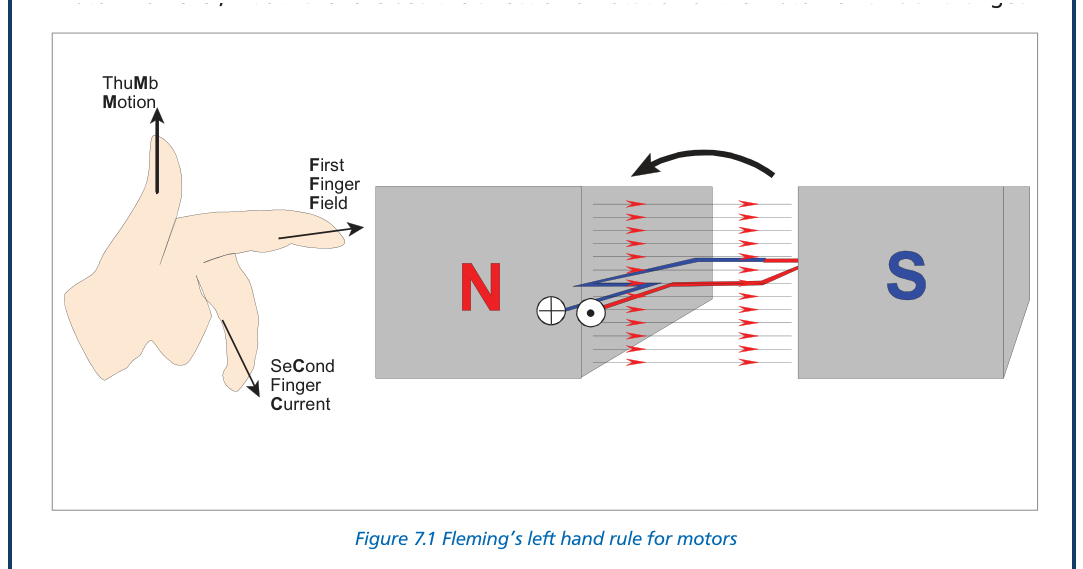
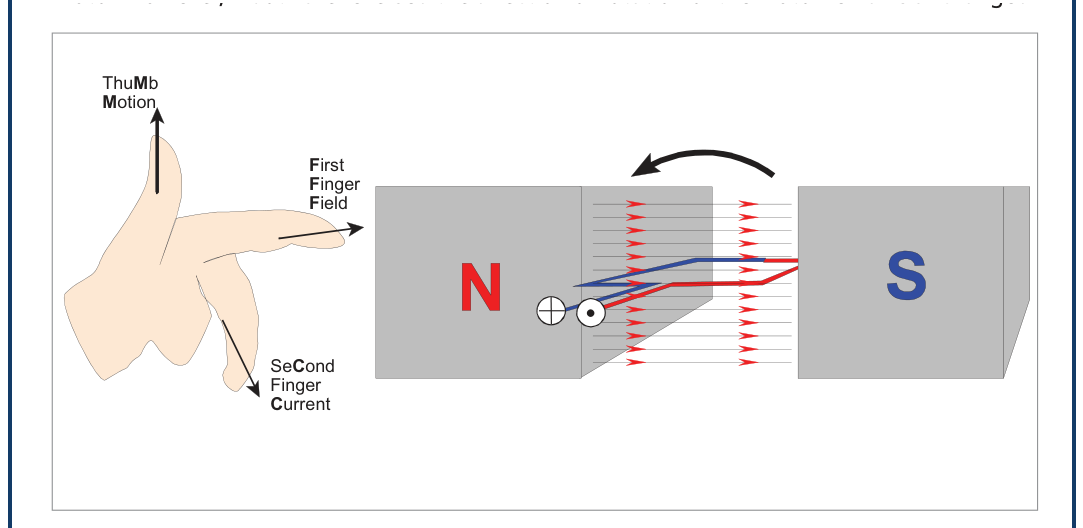
Electrics ch7 (DC motors & actuators): 11 figure notes + block

diff --git a/frontend/src/app/data/aircraft-technical-figure-notes.ts b/frontend/src/app/data/aircraft-technical-figure-notes.ts
@@ -618,6 +618,63 @@ export const FIGURE_NOTES: Record<string, string[]> = {
     "Variable resistors and the voltage-control coils trim each generator's field; the line contactors connect or isolate a generator from the bus. This keeps the two 14 V generators sharing the load evenly.",
   ],
 
+  // ─── Electrics — DC motors & actuators (A.1.3) ───
+  "elecfig-ch07_01": [
+    "This is Fleming's left-hand rule, used to find which way a MOTOR turns. Hold the thumb and first two fingers of the left hand at right angles.",
+    "The First finger points along the Field (N to S), the seCond finger points the way the Current flows, and the thuMb then shows the direction of the resulting Motion (force on the conductor).",
+    "Left hand for motors (motion out), right hand for generators (current out) — a handy way to keep the two rules apart.",
+  ],
+  "elecfig-ch07_02": [
+    "This shows the heart of a DC motor. A current-carrying loop sits in the magnetic field between the poles; the force on its two sides (one up, one down) makes it rotate — just the motor principle applied to a loop.",
+    "The right-hand view shows a real armature with several coils and a commutator split into segments (1, 2, 3, 4). Current is fed in through brushes to whichever coils are best placed to give turning force.",
+    "As the armature turns, the commutator keeps switching the current to the next coils, so the push is continuous and the motor spins smoothly.",
+  ],
+  "elecfig-ch07_03": [
+    "This cutaway shows how a DC motor is built. The armature (the rotating winding) is carried on bearings — a roller bearing at one end, a ball bearing at the other.",
+    "The field coils are wound on pole pieces fixed inside the case to provide the magnetic field. Current reaches the spinning armature through carbon brushes, held against the commutator by springs in brush boxes.",
+    "A fan on the shaft cools the motor, and a pulley (or shaft) takes the drive out to the load. These are the parts to be able to name for the exam.",
+  ],
+  "elecfig-ch07_04": [
+    "This shows why a starter motor needs a slow-start resistor. At the instant of starting the motor is not yet turning, so it generates no back-EMF, and a very large inrush current would flow.",
+    "A resistor is put in series to limit this starting current. Once the motor is up to speed, a centrifugal switch (or a time switch) closes and shorts the resistor out, so the motor then gets the full voltage.",
+    "This protects the battery and the motor from the heavy surge that would otherwise occur at switch-on.",
+  ],
+  "elecfig-ch07_05": [
+    "This is a series-wound DC motor: the field coil is in series with the armature, so all the motor current flows through the field.",
+    "That gives it a very high starting torque (lots of current at start means a strong field), which is why series motors are used for starter motors. The downside is that its speed varies a lot with load, and off-load it can over-speed dangerously.",
+    "So a series motor is ideal for a job needing a big initial pull against a heavy load, like turning an engine over.",
+  ],
+  "elecfig-ch07_06": [
+    "This is a shunt-wound DC motor: the field coil is connected in PARALLEL (across) the armature rather than in series.",
+    "Because the field current is almost constant, the motor runs at a fairly steady speed whatever the load — it does not run away off-load like a series motor.",
+    "That steady speed makes the shunt motor the choice where a constant running speed matters more than a huge starting torque.",
+  ],
+  "elecfig-ch07_07": [
+    "This shows a starter-generator — one machine that does two jobs. In MOTOR mode it is fed from the aircraft supply and turns the engine to start it (using its series field for high torque).",
+    "Once the engine is running, the machine is switched to GENERATOR mode: now driven by the engine, it generates electrical power, with a voltage regulator controlling its shunt field to hold the output steady.",
+    "Combining the starter and the generator in one unit saves weight and space, which is why it is common on turbine aircraft.",
+  ],
+  "elecfig-ch07_08": [
+    "This is the control circuit of a reversible actuator motor, run from the 28 V DC bus. A control switch selects OPEN or SHUT, feeding current into the motor so it drives one way or the other.",
+    "Limit switches cut the power when the actuator reaches the fully-open or fully-shut position, so it cannot over-run and damage itself. A brake coil holds it in place once stopped.",
+    "Indicator lights (OPEN / SHUT) tell the crew which end the actuator has reached, confirming the item has actually moved.",
+  ],
+  "elecfig-ch07_09": [
+    "This shows a complete rotary electric actuator. The motor drives through a reduction gear (to turn fast rotation into slow, powerful rotation) and a clutch to the output drive.",
+    "Separate OPEN and CLOSE brake coils stop and hold the actuator at each end. Open and close limit switches, operated as the output reaches its travel limits, cut the motor; a selector switch chooses the direction.",
+    "A magnetic 'doll's eye' position indicator shows OPEN, SHUT or (striped) in-transit, so the crew always know where the actuator is. This is the standard way a valve or flap is driven electrically.",
+  ],
+  "elecfig-ch07_10": [
+    "This is a linear electric actuator — it produces a straight push/pull instead of rotation. The motor drives through a reduction gear and clutch to a screw jack: a rotating screw turns a drive nut, which moves the output drive in or out.",
+    "A selector switch chooses IN or OUT, energising the matching motor winding. A limit-switch operating arm trips the IN or OUT limit switch at the end of travel to stop the motor.",
+    "Screw-jack actuators are used to move things that need a strong straight-line force, such as a trimmable stabiliser or a flap screw.",
+  ],
+  "elecfig-ch07_11": [
+    "This shows magnetic position indicators, the little displays that confirm a valve or actuator's position. In the 'doll's eye' type, a magnet assembly on a spindle is turned by a coil; it shows a striped face for NO POWER, then OPEN or SHUT as it is driven.",
+    "The prism type works the same way but flips small prisms to spell OPEN or SHUT (or show a striped 'no power' flag) in a window.",
+    "Both are magnetically operated, so they fall to the striped 'no-power' indication if the supply is lost — telling the crew the indication can no longer be trusted rather than giving a false reading.",
+  ],
+
   // ─── Airframes — Flight Controls: balance, tabs & trim (A.1.2) ───
   "atgfig-ch08_fig_04": [
     "This shows set-back hinge (inset hinge) aerodynamic balance. The hinge line is moved back from the control's leading edge, so part of the surface sits ahead of the hinge.",

diff --git a/frontend/src/app/data/aircraft-technical-notes.ts b/frontend/src/app/data/aircraft-technical-notes.ts
@@ -222,6 +222,14 @@ const NOTES: Record<string, SectionNote> = {
         "Generator failure: red warning light on, ammeter reads zero/discharge. A generator failure is electrical only — engines run normally.",
         "Paralleled generators must share voltage equally, or a circulating current flows between them; load shedding drops non-essential loads.",
       ]},
+      { heading: "DC motors & actuators", figureTopics: ["DC motors & actuators"], points: [
+        "Motor principle: current in the armature conductors sits in the field and is pushed round. Fleming's LEFT-hand rule gives the direction (thuMb motion, First finger field, seCond finger current). A commutator reverses the armature current every half-turn to keep it spinning one way.",
+        "Construction: armature on bearings, field coils on pole pieces, commutator fed by carbon brushes (spring-loaded), often with a cooling fan and an output pulley/shaft.",
+        "Field types: series motor = high starting torque but speed runs away off-load (used for starters); shunt motor = fairly constant speed (used where steady speed matters); compound = a mix.",
+        "Back-EMF: as a motor speeds up it generates a voltage opposing the supply, which limits the running current. At the instant of starting there is no back-EMF, so a big inrush current flows — a slow-start (series) resistor, shorted out by a centrifugal/time switch, limits it.",
+        "Starter-generator: one machine acts as a motor to start the engine, then is switched to act as a generator once running — saves weight on turbine aircraft.",
+        "Actuators: a motor drives a reduction gear and clutch to a rotary or linear (screw-jack) output, with OPEN/CLOSE (or IN/OUT) windings, limit switches to stop at the ends, a brake coil to hold position, and a magnetic 'doll's eye' or prism indicator showing open/shut/in-transit.",
+      ]},
       { heading: "Distribution, protection & bonding", figureTopics: ["Distribution & bus-bars", "Circuit protection"], points: [
         "Bus-bars distribute power; essential/non-essential/battery buses allow load shedding and isolation.",
         "Fuses/circuit breakers protect by current rating; replace a fuse once with the correct rating (never higher). A trip-free CB won't reset until the fault clears.",

diff --git a/frontend/src/app/data/aircraft-technical-electrics-figures.ts b/frontend/src/app/data/aircraft-technical-electrics-figures.ts
@@ -81,4 +81,17 @@ export const ATG_ELECTRICS_FIGURES: AtgElecFigureMeta[] = [
   E("Generation & regulation", "06_16", "Vibrating-contact voltage & current regulator"),
   E("Generation & regulation", "06_17", "Generator, bus-bar & battery"),
   E("Generation & regulation", "06_18", "Paralleled generators with equalizing circuit"),
+
+  // ── Ch7: DC motors & actuators ──
+  E("DC motors & actuators", "07_01", "Fleming's left-hand (motor) rule"),
+  E("DC motors & actuators", "07_02", "Motor loop & multi-coil armature"),
+  E("DC motors & actuators", "07_03", "DC motor construction"),
+  E("DC motors & actuators", "07_04", "Starter motor with slow-start resistor"),
+  E("DC motors & actuators", "07_05", "Series-wound DC motor"),
+  E("DC motors & actuators", "07_06", "Shunt-wound DC motor"),
+  E("DC motors & actuators", "07_07", "Starter-generator"),
+  E("DC motors & actuators", "07_08", "Reversible actuator motor circuit"),
+  E("DC motors & actuators", "07_09", "Rotary electric actuator"),
+  E("DC motors & actuators", "07_10", "Linear (screw-jack) actuator"),
+  E("DC motors & actuators", "07_11", "Magnetic position indicators (doll's eye / prism)"),
 ];
